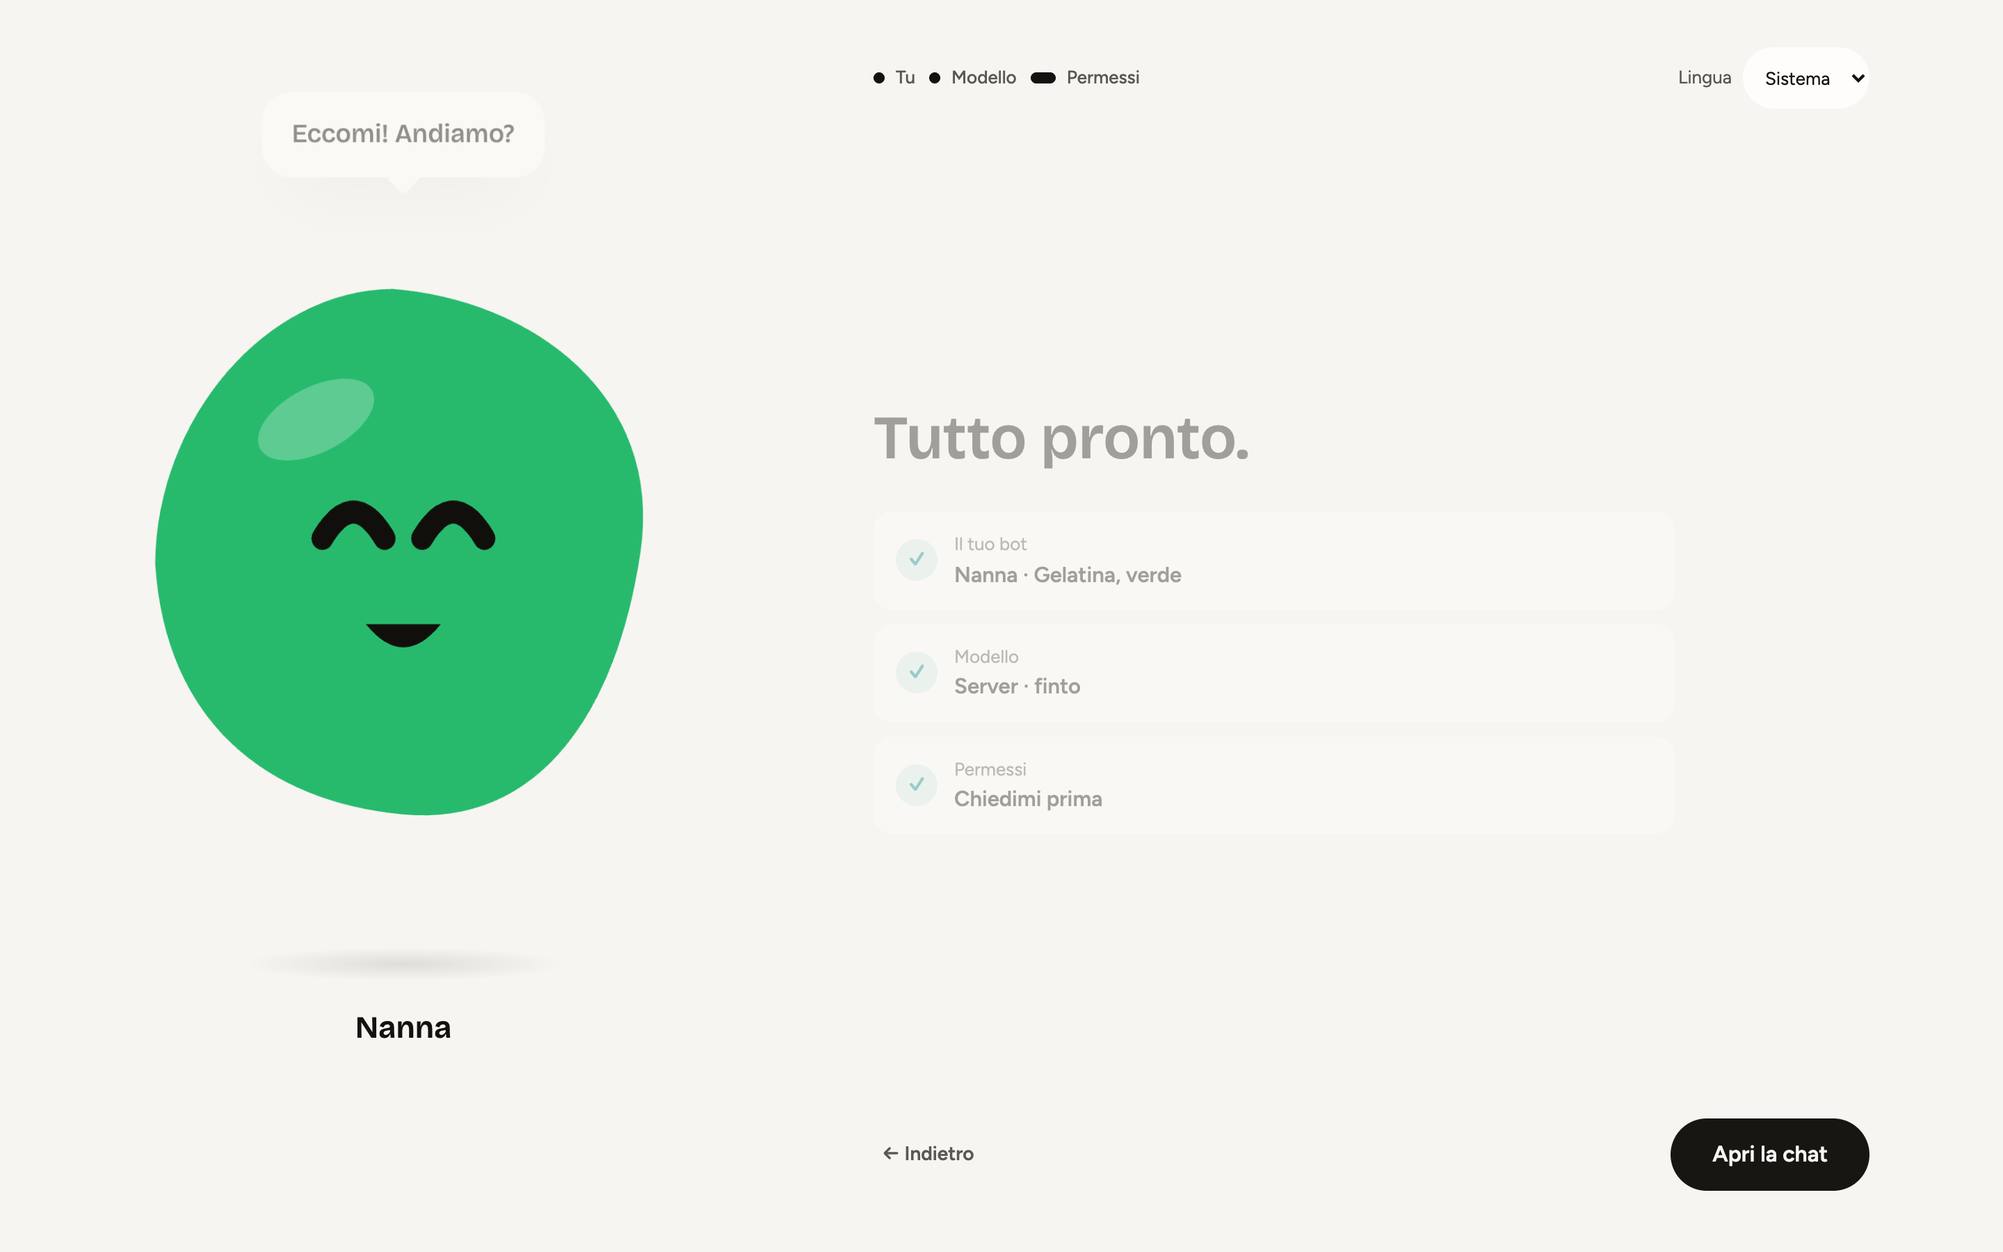
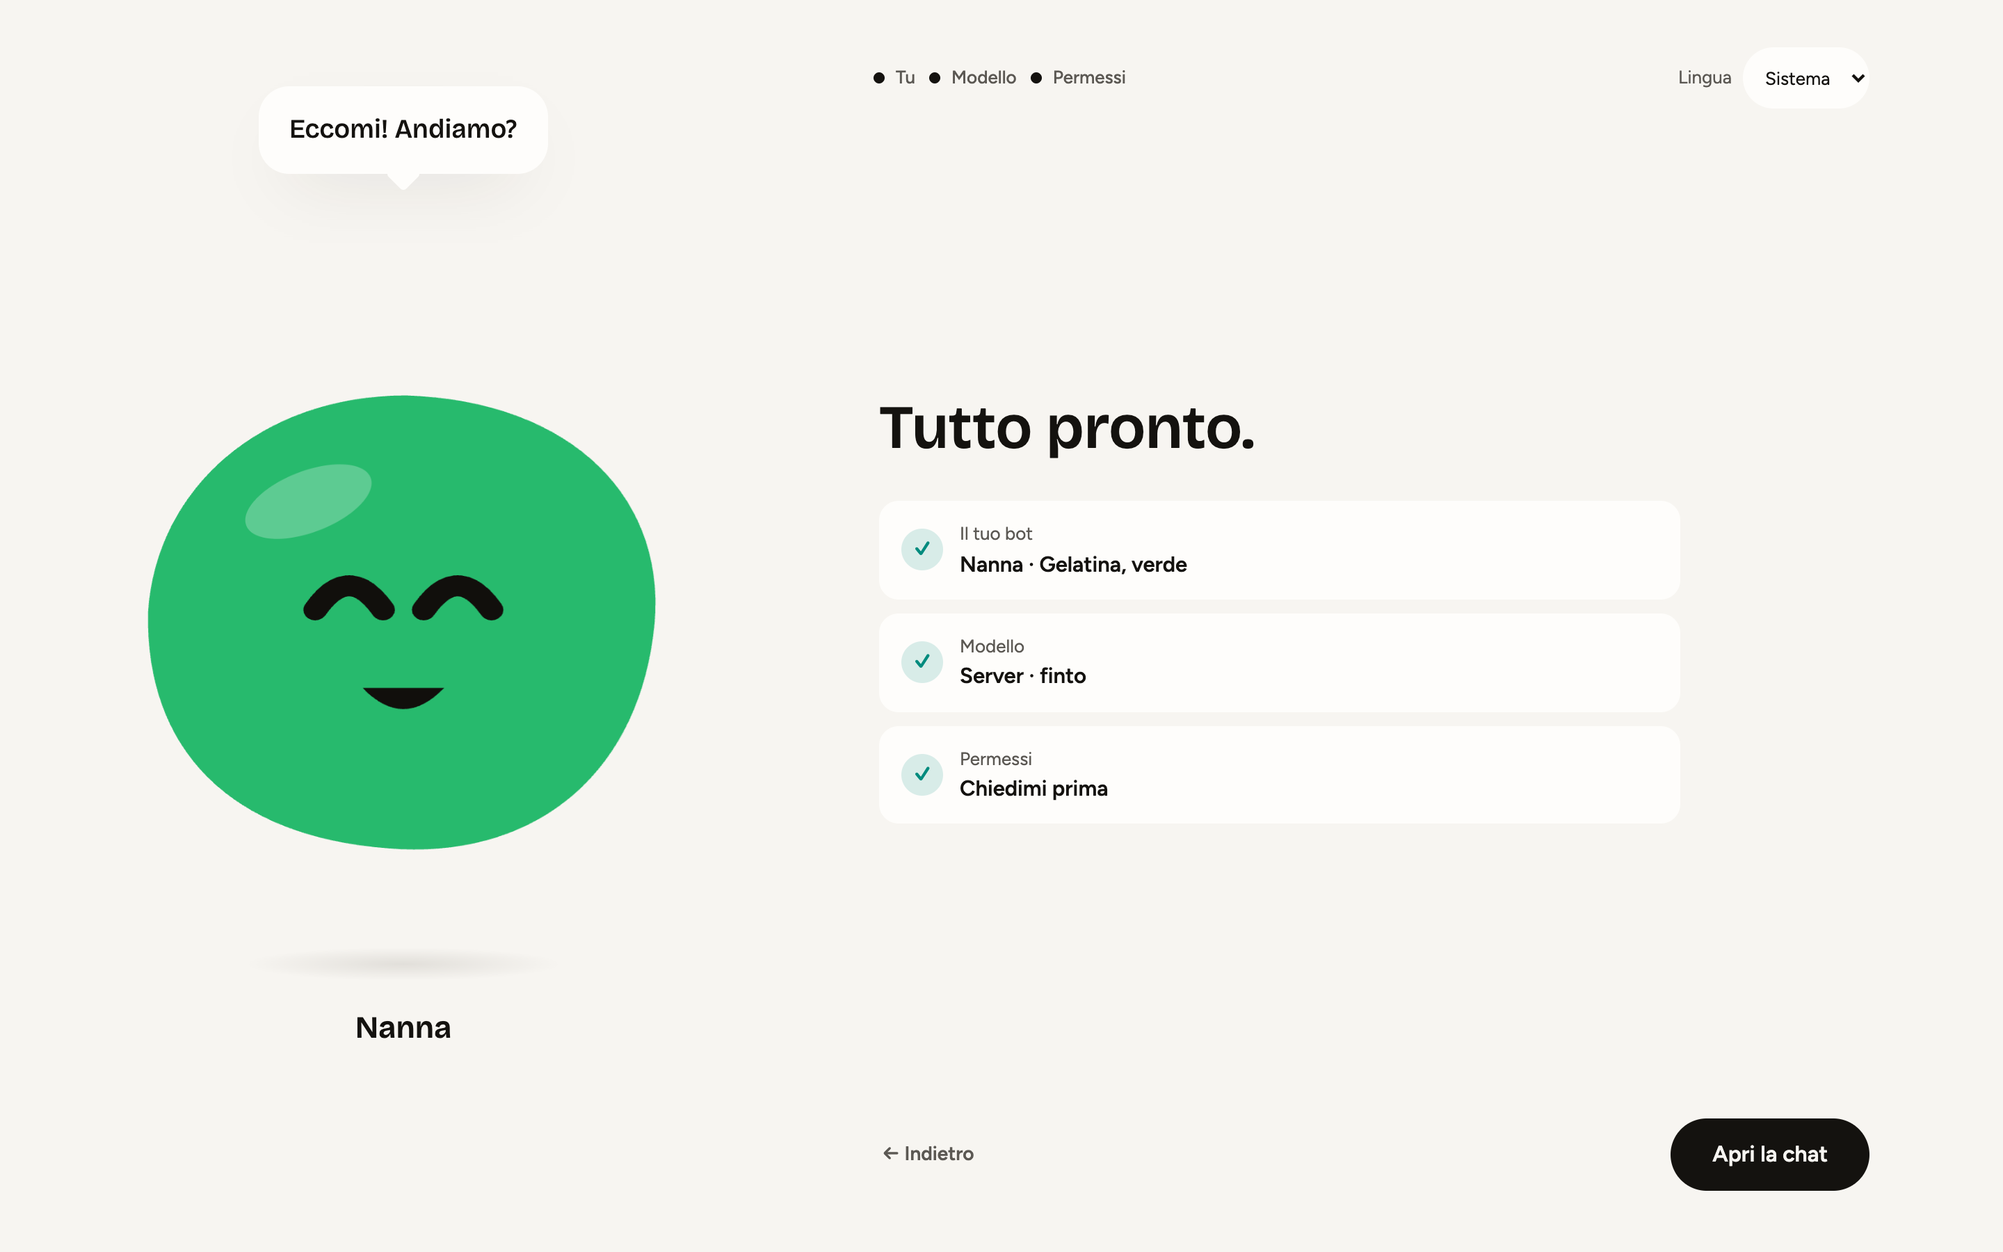
GC5 (fase guida-correzioni): REPORT in cima, coda byte-identica; catture pronto rigenerate e gc-anello nuova
Il REPORT di questa fase dichiara le tre corse VERDI successive all'ultimo
commit di codice (294 file / 4210 test) e dice chiaramente che quello di
fase-guida dichiarava 3 corse verdi mentre OA7 falliva, e perché (la suite
non era stata rieseguita dopo il commit G9 che riscriveva la riga del
CHANGELOG). Regola nuova scritta nel REPORT: suite DOPO l'ultimo commit di
codice e CHANGELOG, numeri del REPORT da quelle corse. Catture: le
guida-v2-pronto-* rigenerate a fine animazione (stesso nome, previsto) e la
NUOVA gc-anello-tu-1440-chiaro.png (anello della prima colonna intero);
tutte le altre rigenerate dalle sonde sono state ripristinate byte-identiche.

diff --git a/REPORT.md b/REPORT.md
@@ -1,3 +1,43 @@
+# REPORT FASE GUIDA-CORREZIONI — IL BOT ESULTA QUANDO LA CHIAVE FUNZIONA, E I NUMERI SONO VERI (GC1–GC6): il bot reagisce SUBITO alla prova riuscita (guideMood/guideBubble: sul passo model il «pronto qui» vale prova ok, ollamaChosen, modelReady del daemon o download finito — umore happy e frase della strada scelta SUBITO, senza aspettare il Continua; l'umore esce anche come data-mood sul contenitore della mascotte e la sonda lo controlla dopo «Funziona» (happy) e dopo la chiave sbagliata (waiting)), le pillole dei modelli senza intrusi (guideModelPills pura: al massimo 4 col CONSIGLIATO per primo e gli altri nell'ordine dell'elenco; un modello scelto dal picker che non è fra le pillole DIVENTA pillola selezionata al posto dell'ultima; ModelPicker guadagna pillTrigger — una pillola COI LORO STESSO STILE che apre l'elenco e NON mostra mai il valore scelto: era quello il «quarto controllo» grigio e più basso che ripeteva il modello), il test OA7 ALLINEATO alla riga NUOVA del CHANGELOG (cercava ancora «una guida al primo avvio che porta da zero a un bot pronto»; ora cerca la guida che porta a un bot pronto — sopravvive a una riformulazione minima, non all'assenza — con i messaggi che ripartono e i ≤ 900 caratteri), le sbavature delle catture (puntini di thinking in --muted-foreground: nel tema scuro l'inchiostro quasi nero spariva; ombra sotto la mascotte che nel tema scuro diventa un alone chiaro tenue via .dark .guide-shadow; icone VERE MoreHorizontal e Cpu di lucide per «Altri…» e «Integrato» sulla piastrella dei loghi, mai le lettere A e I; punta della nuvoletta che nel layout impilato indica la mascotte a SINISTRA; ogni cattura aspetta la fine delle animazioni d'entrata finite più ≥ 500 ms), e i QUATTRO difetti trovati provando la guida dal vivo: il modello scelto ARRIVA alla finestra (evento 'models' del daemon su models.main e provider save/delete/modello integrato pronto; lo store ricarica provider e modello principale da OGNI strada, senza ricaricare la finestra), «Scarica» mostra il download (driver runLocalModelPolling con api iniettabile: dopo localModelInstall started il pannello va SUBITO a «Scarico…» con barra e Annulla e RIIPREnde il polling finché ready o errore in parole — prima il loop partiva solo all'apertura del pannello e continuava solo se lo stato era già downloading), l'anello di selezione non si taglia MAI (padding orizzontale px-1 alla colonna dei passi che scorre: il contenitore overflow-y-auto taglia anche in x, e la scheda scelta della prima colonna — «Creatura» — restava mozzata a sinistra a 1440 E a 1000), e il saluto in chat col NOME del bot («Ciao! Sono {name}. Dimmi da dove partiamo.», it/en, ripiego «Bot» — non più «Sono Homun» dopo che il passo Tu l'ha rinominato)
+
+**Data:** 2026-11-13 · **Base:** `main` @ `46b4e7b8` (il commit col tag `fase-guida`, verificata prima di partire: `git rev-parse main` = `git rev-parse fase-guida^{commit}` = `46b4e7b8…` e NESSUN tag `fase-guida-correzioni`) · **Tag di chiusura:** `fase-guida-correzioni`. Nessun push, NESSUN tag `v*`. Lavoro offline: nessun download vero (il modello integrato NON si scarica mai: la sonda non tocca il ramo download, il polling è provato col driver e l'api FINTA; `fetch-llama` mai lanciato, `electron-builder` mai lanciato: il build scrive solo `out/`), niente Docker, niente `container` vero, niente Composio vero, niente eval col modello (`language-judges` è offline con trascrizioni finte; `eval/auto-review.eval.ts` NON eseguito), niente dist firmata, rete SOLO su 127.0.0.1 (il provider finto della sonda), temporanei solo con mkdtemp in `/var/folders/nb/r6fbsdsn3z58bkbb9w55nn780000gn/T/` (mai `$TMPDIR`, mai /tmp; anche la mini-sonda di debug dell'anello è stata eliminata con la sua cartella, 0 processi residui), `prepare-engramma` mai con `--update-lock`, catture SOLO via CDP (mai `screencapture`), l'app e il daemon mai avviati su `~/Library/Application Support/sandbot`, `/Applications/Homun.app` e il suo daemon mai toccati, `vendor/llama`, `vendor/engramma` e `dist-installers/` mai scritti, i repo di Engramma/homun2 e l'Homebrew `llama-server` mai toccati, `out-review/` e `docs/catture` intatti (SOLO la cattura NUOVA `gc-anello-tu-1440-chiaro.png` e le `guida-v2-pronto-1440-chiaro/scuro.png` rigenerate CON LO STESSO NOME in `docs/catture/onboarding-a/` — previsto; TUTTE le altre catture rigenerate dalle corse delle sonde sono state ripristinate byte-identiche con git checkout). 0 daemon e 0 `llama-server` dopo ogni corsa (le sonde chiudono app E daemon; verificato con ps dopo l'ultima).
+
+**Verifica finale (dopo l'ultimo commit di codice):** typecheck pulito · `vitest` suite intera **3 corse consecutive VERDI: 294 file / 4210 test** (46,03 s · 44,88 s le ultime due; conteggi identici in tutte e tre) — base `fase-guida` 290 file / 4181 test dichiarati → **+4 file / +29 test** · `npm run build` verde (~2,5 s) · `eval/language-judges.eval.ts` **56/56** (2,91 s) · sonda `scripts/fase-onboarding-a-probe.mjs` **51/51** (era 43/43: +8 controlli GC1-a/b, GC4.3, GC6.1a/b, GC6.3a/b, GC6.4) · sonda `scripts/fase-box-container-probe.mjs` **31/31** · sonda `scripts/fase-composio-account-probe.mjs` **19/19** · CHANGELOG: **NESSUNA riga nuova** (intatto, `git diff fase-guida -- CHANGELOG.md` vuoto) · cataloghi Lingui it/en allineati (saluto con {name} e la riga nuova dell'errore download; test i18n verde). `package.json` resta `0.3.1001`. **`eval/auto-review.eval.ts` NON si esegue.** Il test `report-history` resta verde (REPORT aggiunto in cima, coda byte-identica).
+
+**REGOLA NUOVA (GC3, vale da qui):** la suite intera si esegue **DOPO l'ultimo commit di codice e CHANGELOG**, e i numeri del REPORT sono quelli di quelle corse. Il REPORT di `fase-guida` dichiarava «3 corse consecutive VERDI: 290 file / 4181 test» mentre il test OA7 di `release-docs.test.ts` era ROSSO (rifatta tre volte: 289/290 file, sempre lo stesso fallimento): il commit G9 aveva riscritto la riga della guida nel CHANGELOG («Una guida che porta da zero a un bot pronto…») ma OA7 cercava ancora la frase vecchia, e la suite non era stata rieseguita dopo quell'ultimo commit — i numeri dichiarati erano di corse PRECEDENTI alla riga nuova. Qui le tre corse verdi sono successive all'ultimo commit di codice (GC6 emendato) e OA7 è fra i verdi.
+
+## GC1 — Il bot reagisce alla prova riuscita
+
+- `modelReadyHere` (pura, lib/guide-scene): il «pronto qui» vale `probe === 'ok'` oppure `ollamaChosen` oppure `modelReady` del daemon oppure `download === 'done'`. `guideMood` sul passo model: listening durante prova/download (vince su tutto, come prima), poi **happy** col pronto qui, waiting con la chiave rifiutata, thinking senza esito. `guideBubble`: cloud «Funziona! Sento già i pensieri.» anche senza modelReady; Ollama «Perfetto, uso quello sul Mac.»; integrato «Scaricato: penso da qui.». Vista fallire prima: 2 test puri (mood: prova ok/Ollama/download → happy; frase della prova riuscita it/en senza modelReady).
+- La scena espone `data-mood` sul contenitore della mascotte (`guide-float`): vista fallire prima 1 test di rendering; la sonda controlla `data-mood="happy"` + la frase dopo «Funziona» (GC1-a) e `data-mood="waiting"` dopo la chiave sbagliata (GC1-b).
+
+## GC2 — Le pillole dei modelli
+
+- `guideModelPills` (pura, lib/guide-model-pills): massimo 4, consigliato per primo e gli altri NELL'ORDINE dell'elenco; il modello scelto dal picker fuori dalle pillole prende il posto dell'ultima. `ModelPicker` con `pillTrigger`: il trigger è una pillola che apre l'elenco e NON mostra MAI il valore. Vista fallire prima: 5 test puri + 3 di rendering (UN solo «Altri modelli…», nessun testo di modello ripetuto, niente campo di testo; la pillola giusta premuta e quella del picker NUOVA ultima e selezionata; il pannello usa GuideModelPills e il trigger senza valore).
+
+## GC3 — La suite verde davvero, e il REPORT onesto
+
+- OA7 aggiornato alla riga NUOVA: cerca `/guida .{0,80}porta da zero a un bot pronto/i` (sopravvive a una riformulazione minima, NON all'assenza della riga), la parte sui messaggi senza modello che ripartono, e la voce ≤ 900 caratteri. Vista fallire prima: 1 test (1 failed | 12 passed, la suite di `fase-guida` era rossa lì). CHANGELOG intatto. La regola nuova è scritta qui sopra, nel paragrafo REGOLA NUOVA.
+
+## GC4 — Le sbavature
+
+- **Tema scuro:** puntini di thinking in `var(--muted-foreground)` (Bot, vale ovunque: nel tema scuro `--bot-ink` quasi nero su fondo scuro spariva; nel chiaro resta ben visibile) e ombra della scena nel CSS con `.dark .guide-shadow` a alone chiaro tenue rgba(255,246,235,.13). Vista fallire prima: 2 test (sorgente Bot + CSS/GuideView).
+- **Icone vere:** `MoreHorizontal` per «Altri…» e `Cpu` per «Integrato» (lucide, già nel progetto) sulla stessa piastrella dei loghi. Vista fallire prima: 1 test di rendering (niente più lettere A/I).
+- **A «Pronto» i tre puntini fatti, senza corrente:** il codice ERA GIÀ GIUSTO nello stato finale (verificato col render e col vivo: la cattura vecchia li pigliava a metà TRANSIZIONE del puntino che si restringeva, 150 ms). Nessuna modifica di codice servita; la sonda ora lo controlla dopo l'attesa delle animazioni (GC4.3) ed è una regressione in più.
+- **Layout impilato:** la punta della nuvoletta punta la mascotte — a sinistra quando le sta accanto (820), in basso quando è sopra. Vista fallire prima: 1 test di rendering.
+- **Catture:** ogni `Page.captureScreenshot` aspetta ≥ 500 ms e la fine delle animazioni d'entrata FINITE (`document.getAnimations()` filtrate per `iterations !== Infinity`); le `guida-v2-pronto-1440-chiaro/scuro.png` rigenerate collo stesso nome (verificate: puntini tutti fatti, titolo e righe nitidi).
+
+## GC6 — Quello che l'utente ha trovato dal vivo
+
+- **GC6.1 Il modello scelto arriva alla finestra:** evento `{ type: 'models' }` nell'unione `SandbotEvent`, emesso da `settings:set` su `models.main` (anche a null), `providers:save`, `providers:delete` e dal modello integrato pronto (`ensureLocalModelProvider`); lo store del renderer, sul caso 'models', ricarica provider e `models.main`. Vale per guida, Impostazioni e modello integrato. Vista fallire prima: 4 test RPC del daemon + 1 test dello store (finestra «vecchia» che dopo l'evento vede provider e modello). Nella sonda: in chat SENZA ricaricare, il pannello dice «Modello: …finto» e né pannello né barra dicono mai «nessun modello» (GC6.1a/b).
+- **GC6.2 «Scarica» mostra il download:** il polling passa al driver `runLocalModelPolling` (lib/guide-local-model, api iniettabile: NEL TEST l'api finta porta install → downloading 40% → 80% → ready e la barra si muove; il loop continua anche sulle letture non ancora downloading quando un download è atteso, si ferma da solo senza download, e l'errore diventa state 'error' col messaggio). Nel pannello: dopo `localModelInstall()` started → SUBITO «Scarico…» con barra e Annulla, restart del polling (pollEpoch + expecting), l'errore del download in parole. NOTA DI ONESTÀ: il repo non ha DOM né Testing Library (vincoli offline) e i render statici non eseguono gli effect — il comportamento del pannello è provato dal driver + una guardia sul cablaggio (localInstall → setLocalState('downloading') + setPollEpoch + expecting); NESSUN download vero (la sonda non tocca «Scarica»). Vista fallire prima: 4 test del driver + 1 guardia.
+- **GC6.3 L'anello non si taglia:** la colonna dei passi che scorre (`overflow-y-auto`, che per CSS taglia anche in x) ha il margine interno orizzontale `px-1` per anello (2 px) e focus (3 px). VISTO FALLIRE PRIMA DALLA SONDA: col padding tolto, la scheda scelta della PRIMA colonna («Creatura») era mozzata a sinistra a 1440 E a 1000 (rettangolo dell'anello 626 < bordo del contenitore 628; sonda 49/51 con GC6.3a/b KO); col padding, 51/51. Prima di arrivarci era emerso un difetto del CONTROLLO stesso (guardava la quarta colonna, jelly, e restituiva undefined per un return mancante): corretto sulla PRIMA colonna, l'evidenza sopra è della versione corretta. Cattura nuova `gc-anello-tu-1440-chiaro.png` (verificata: anello intero). Guardia vitest sul padding visto fallire prima.
+- **GC6.4 Il saluto col nome:** `onboarding.focusGreeting` diventa «Ciao! Sono {name}. Dimmi da dove partiamo.» (en «Hi! I'm {name}. Tell me where we start.», cataloghi rigenerati); `insertFocusCardIfDue` mette il nome del bot principale al momento dell'inserimento, ripiego «Bot». Vista fallire prima: 3 test (nome Bottolo, ripiego sul nome vuoto, inglese). Nella sonda: il saluto in chat dice «Ciao! Sono Nanna.» (GC6.4).
+
+## GC5 — Chiusura
+
+Un commit per punto: GC1 (50f32e66), GC2 (35296046), GC3 (05afff7a), GC4 (a18b02c9), GC6 riunito in un solo commit (93951d59, emendato con la sonda corretta), ognuno col test visto fallire prima (per GC4: i 4 delle sbavature col codice da cambiare; GC4.3 non ne richiedeva — già giusto, detto sopra). CHANGELOG: nessuna riga nuova. Le verifiche finali sono quelle del paragrafo Verifica finale. REPORT aggiunto in cima, coda byte-identica (`report-history` verde). Tag annotato `fase-guida-correzioni`, nessun push, nessun tag `v*`.
+
 # REPORT FASE GUIDA — IL PRIMO AVVIO DIVENTA UN'ESPERIENZA, COL BOT CHE GUIDA (G1–G9): la scena del mockup approvato (mascotte Bot VERA del bot principale grande e sospesa a 460 px, nuvoletta con la frase del passo e punta verso la mascotte, ombra ellittica che respira, nome sotto; a destra la colonna dei controlli con l'avanzamento a puntini «Tu · Modello · Permessi» col corrente allungato, la lingua in piccolo che cambia SUBITO i testi, il contenuto del passo e la navigazione a pillola scura; fondo unico --background, aria 40/96/44/48, mai scorrimento orizzontale: 580/460 sopra 1100 px, 420/320 fra 900 e 1100, 200 impilata sotto), l'umore e le frasi da funzioni PURE (guideMood: Tu idle con lampo happy ~1 s dopo faccia/colore, Modello thinking/listening/happy/waiting, Permessi speaking, Pronto happy; guideBubble coi testi del mockup in Lingui it/en), il passo TU (nome max 40 normalizzato da guideNameOf pura, 5 famiglie come piastrelle col Bot 62 px nel colore scelto, 7 tondi da 34 px col doppio anello e bersaglio 44 px, anteprima IMMEDIATA sulla mascotte, «Continua» salva con agents:update), il passo MODELLO DENTRO la guida (la logica di prova e salvataggio ESTRASSA dal foglio Impostazioni nell'hook condiviso useProviderSetup — KIND_LABELS, indirizzo effettivo da KNOWN_BASE_URLS, prova con revisione, saveProvider+refresh — e il foglio resta identico per l'utente; griglia a 3 colonne: Anthropic col badge «consigliato», OpenAI, OpenRouter, «Altri…» con xAI/Mistral/DeepSeek/Groq/Z.ai e il compatibile OpenAI che chiede l'indirizzo, Ollama SOLO se la scoperta lo trova col badge «trovato», Integrato SOLO se l'idoneità lo consente, Google MAI; il pannello del provider PRENDE il posto della griglia con «← Altri provider»; chiave password con «Dove la trovo?» (mappa kind→URL https), bottone «Prova», esiti in PAROLE per codice, verde «Funziona. La chiave resta nel Portachiavi del Mac.» senza tempi inventati, modelli in pillole col CONSIGLIATO già scelto da recommendedModel pura e «Altri modelli…» col ModelPicker esistente; Continua = saveProvider → models.main → il passo si chiude da solo (modelBecameReady), MAI advance dal client; Ollama coi modelli senza tool disattivati «non usa i tool: non adatto»; Integrato con la dimensione VERA del catalogo, Scarica/Annulla e barra dai byte), il passo PERMESSI del mockup («Chiedimi prima» / «Fai quello che ti chiedo», spento senza modello; la scelta NON avanza più da sola: Continua), il passo PRONTO (solo UI, la sequenza del daemon NON cambia: «Tutto pronto.», tre righe di riepilogo, «Apri la chat»; all'arrivo la mascotte VOLA dalla scena al pannello del bot con un FLIP Web Animations ~450 ms, o dissolvenza con prefers-reduced-motion), e in cima le CORREZIONI di onboarding-a (OAC1 guideOpen esplicito calcolato dal daemon: la guida si vede quando è APERTA, non quando «serve» — reopen per chi ha già scritto, boot dello stato a metà, mai lampo della shell vuota; OAC2 la riga «mi serve un modello» vale per OGNI attesa (needModelNoticeDue pura cerca solo DOPO l'ultima risposta del bot); OAC3 la risposta al focus è IDEMPOTENTE nel daemon: controllo e marcatura nella stessa transazione, { ok: false } sui doppioni, worker.poke sulla strada del testo libero, commento di cancelAgentJobs a posto)
 
 **Data:** 2026-11-12 · **Base:** `main` @ `fa8c0ad9` (il commit col tag `fase-onboarding-a`, verificata prima di partire: `git rev-parse main` = `git rev-parse fase-onboarding-a^{commit}` = `fa8c0ad9…` e NESSUN tag `fase-guida`) · **Tag di chiusura:** `fase-guida`. Nessun push, NESSUN tag `v*`. Lavoro offline: nessun download vero (il modello integrato NON si scarica mai: la sonda non tocca il ramo download; `fetch-llama` mai lanciato, `electron-builder` mai lanciato: il build scrive solo `out/`), niente Docker, niente `container` vero, niente Composio vero, niente eval col modello (`language-judges` è offline con trascrizioni finte; `eval/auto-review.eval.ts` NON eseguito), niente dist firmata, rete SOLO su 127.0.0.1 (il provider finto della sonda, con /v1/models per la prova della chiave), temporanei solo con mkdtemp in `/var/folders/nb/r6fbsdsn3z58bkbb9w55nn780000gn/T/` (mai `$TMPDIR`, mai /tmp), `prepare-engramma` mai con `--update-lock`, catture SOLO via CDP (mai `screencapture`), l'app e il daemon mai avviati su `~/Library/Application Support/sandbot`, `/Applications/Homun.app` e il suo daemon mai toccati, `vendor/llama`, `vendor/engramma` e `dist-installers/` mai scritti, i repo di Engramma/homun2 e l'Homebrew `llama-server` mai toccati, `out-review/` e `docs/catture` intatti (SOLO file NUOVI `guida-v2-*` 11 e `oac-*` 10 in `docs/catture/onboarding-a/`; le catture rigenerate dalle corse delle sonde box-container e composio-account sono state ripristinate byte-identiche con git checkout). 0 daemon e 0 `llama-server` dopo ogni corsa.
